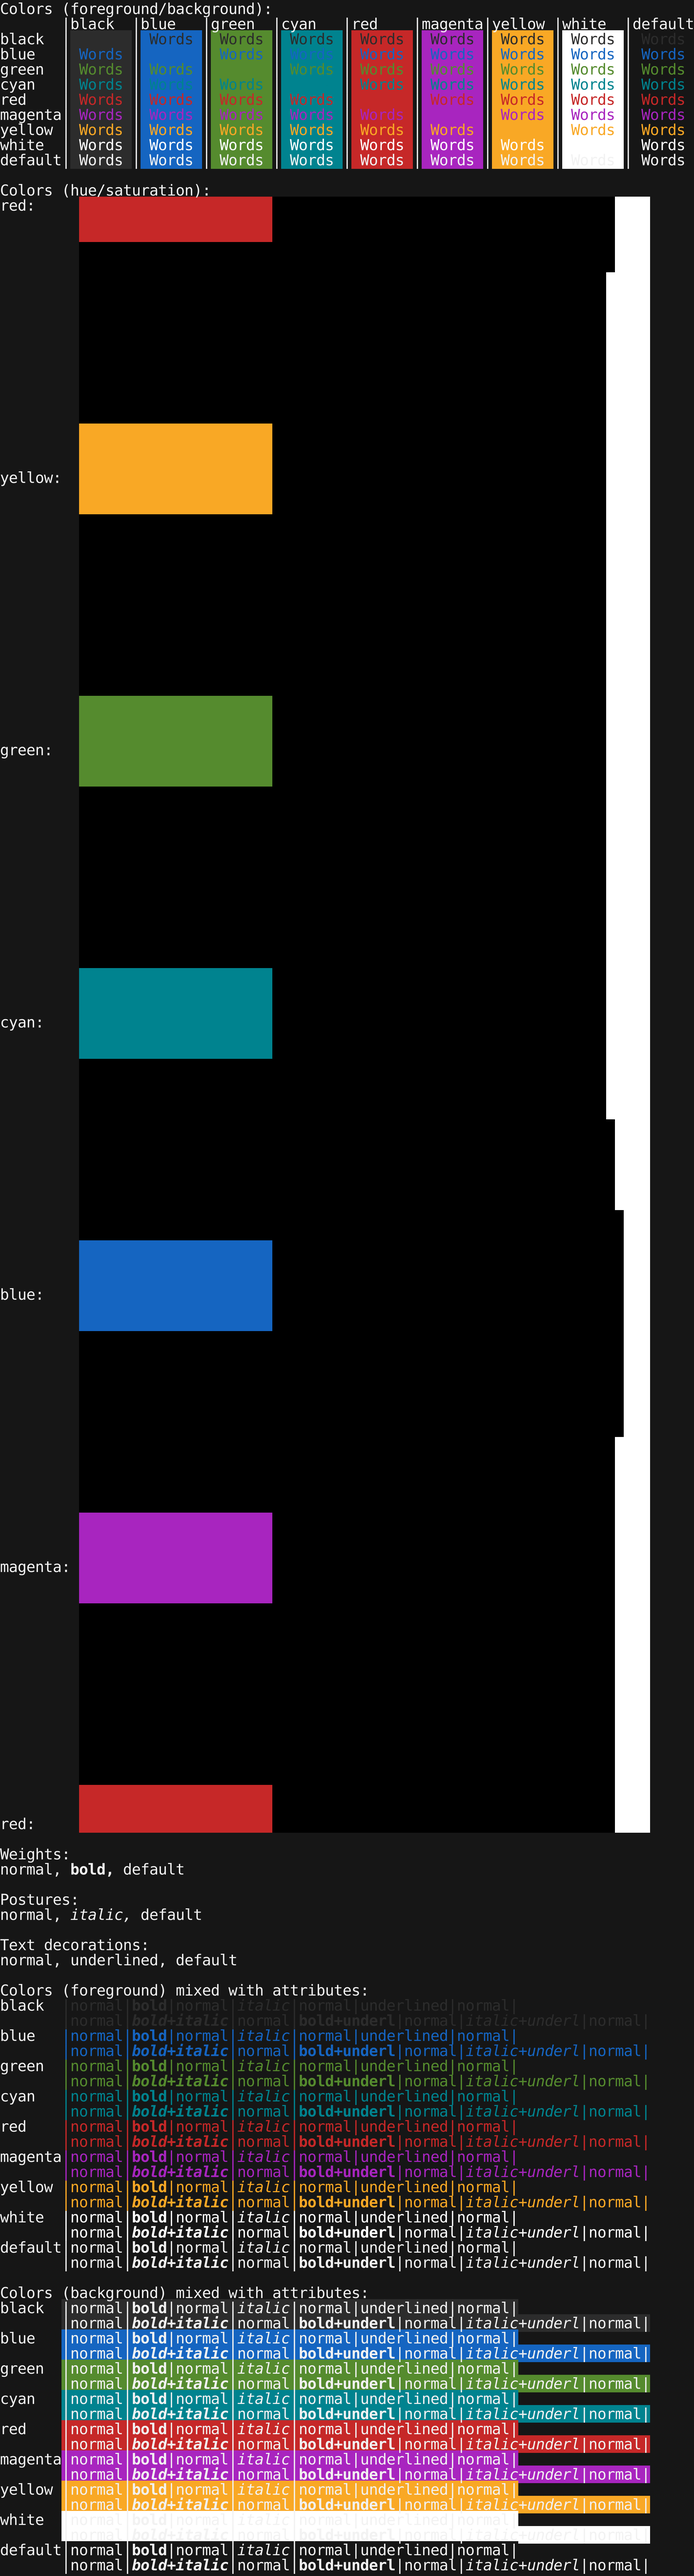
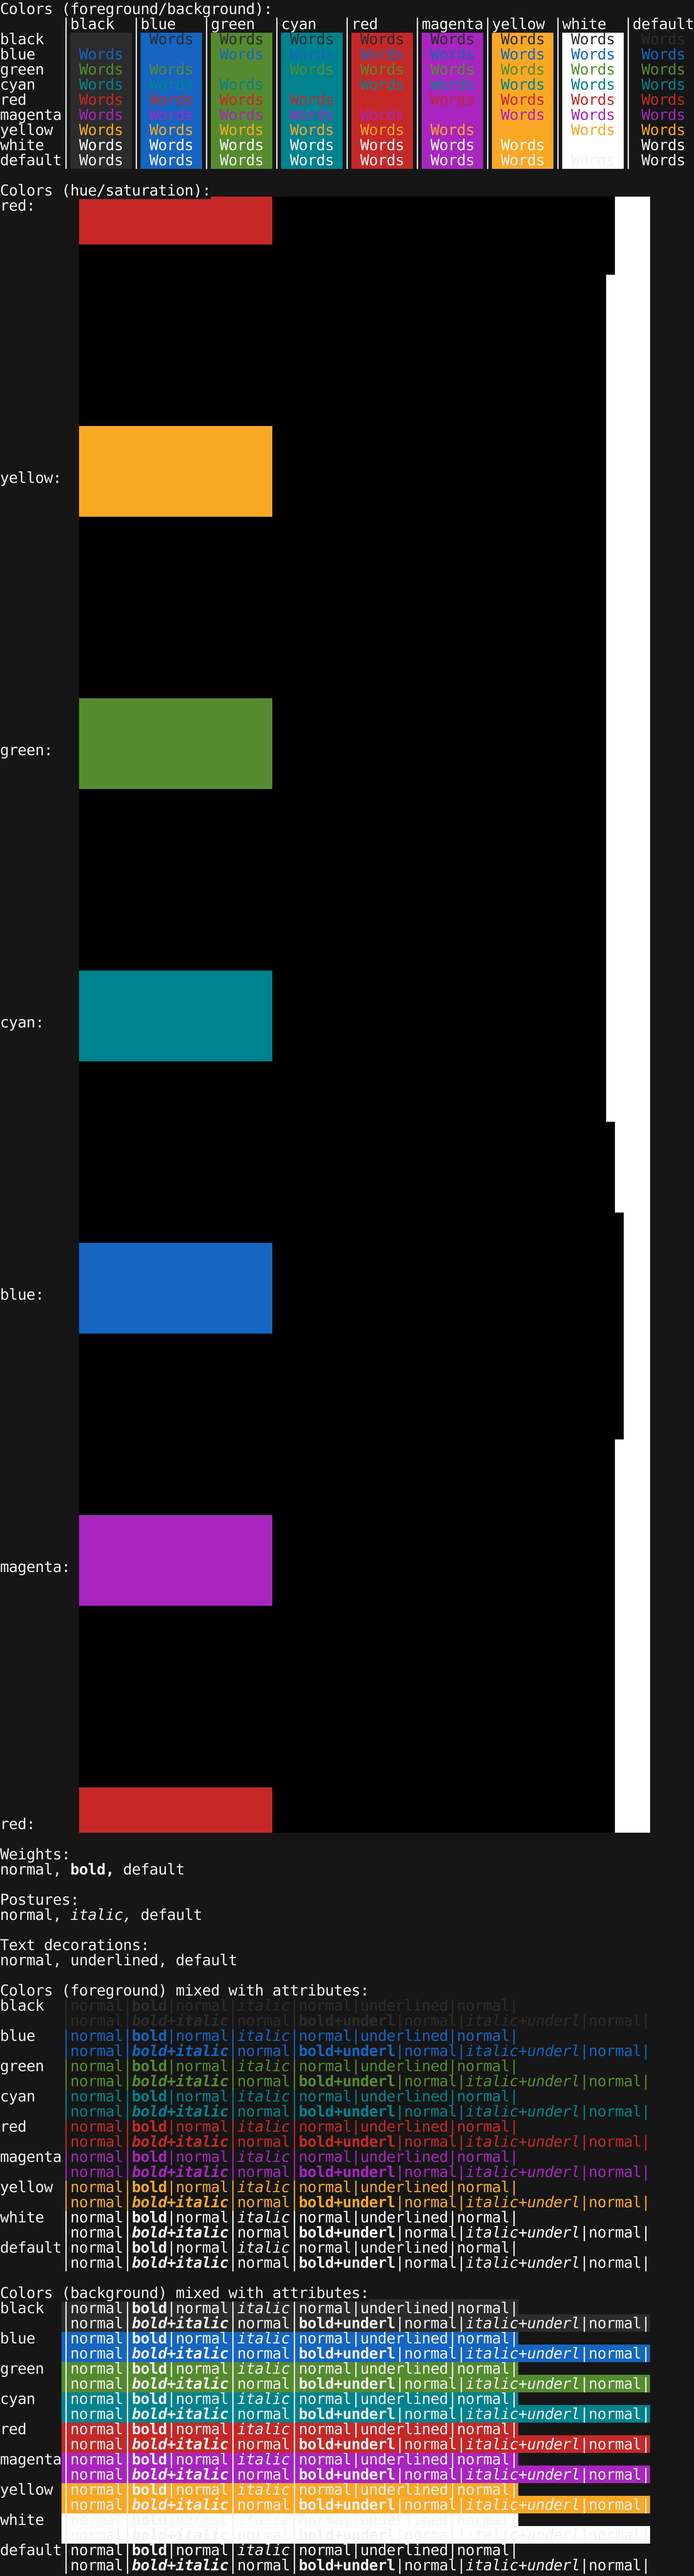
Add examples to readme

diff --git a/README.html b/README.html
@@ -1,0 +1,7 @@
+<h1 id="ansi2png-rs">ansi2png-rs</h1>
+<p>Read ansi sequences from a file and generate a png from it.</p>
+<h2 id="examples">Examples</h2>
+<p>Generated from <a href="resources/out.ansi">resources/out.ansi</a>: <img src="resources/out.png" alt="“example output”" /></p>
+<p>Generated from <a href="resources/ansi2png_help.ansi">resources/ansi2png_help.ansi</a>: <img src="resources/ansi2png_help.png" alt="“ansi2png help output”" /></p>
+<p>Generated from <a href="resources/msgcat.ansi">resources/msgcat.ansi</a>: <img src="resources/msgcat.png" alt="“example msgcat”" /></p>
+<p>Generated from <a href="resources/tests.ansi">resources/tests.ansi</a>: <img src="resources/tests.png" alt="“example tests”" /></p>

diff --git a/src/printer.rs b/src/printer.rs
@@ -256,8 +256,8 @@ impl<'a> From<Printer<'a>> for RgbImage {
             );
         }
 
-        // Render background before foreground
-        printer.state.text.iter().for_each(|((x, y), entry)| {
+        // Render background before foreground from bottom to top to make it look better
+        printer.state.text.iter().rev().for_each(|((x, y), entry)| {
             let background_end_x = x + printer.settings_internal.glyph_advance_width as u32;
             let background_end_y = y + printer.settings.font_height as u32;
 

diff --git a/README.md b/README.md
@@ -2,9 +2,16 @@
 
 Read ansi sequences from a file and generate a png from it.
 
-Generated from [resources/out.ansi](resources/out.ansi):
+## Examples
 
+Generated from [resources/out.ansi](resources/out.ansi):
 !["example output"](resources/out.png)
 
 Generated from [resources/ansi2png_help.ansi](resources/ansi2png_help.ansi):
 !["ansi2png help output"](resources/ansi2png_help.png)
+
+Generated from [resources/msgcat.ansi](resources/msgcat.ansi):
+!["example msgcat"](resources/msgcat.png)
+
+Generated from [resources/tests.ansi](resources/tests.ansi):
+!["example tests"](resources/tests.png)
